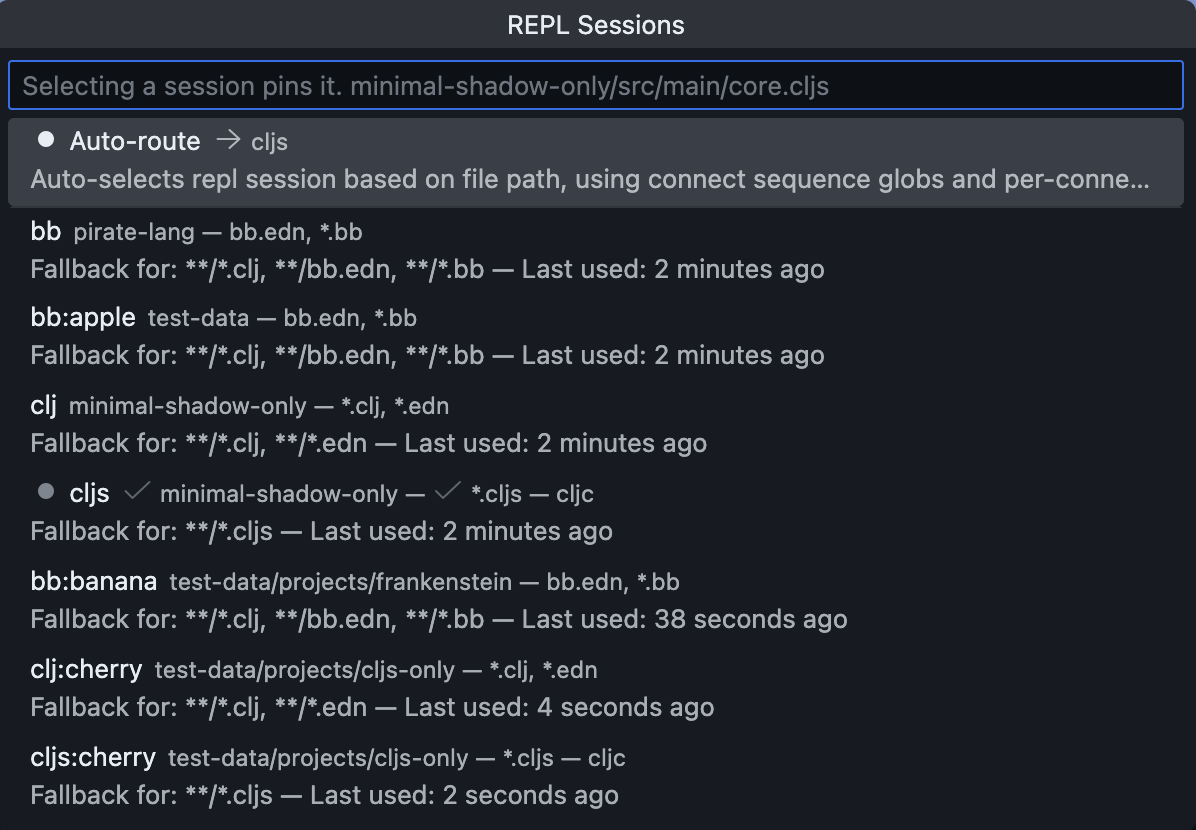
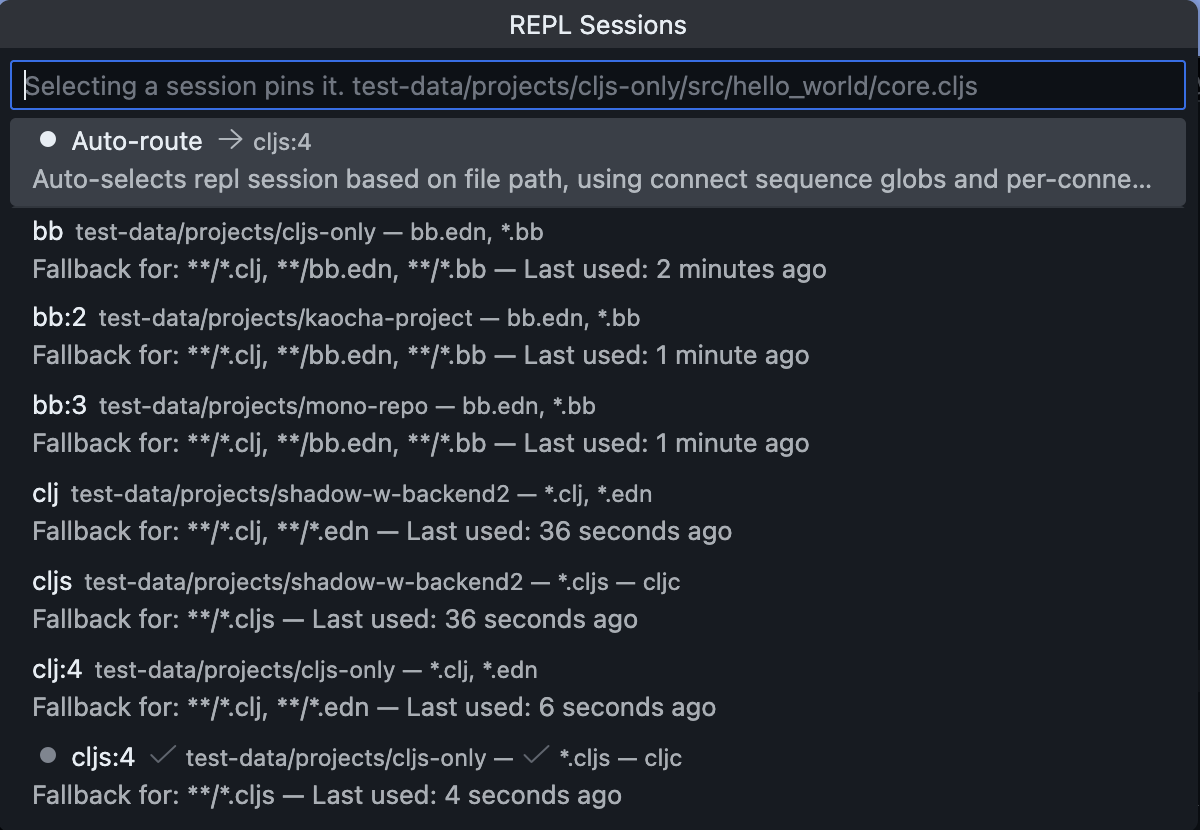
Remove some remaining fruit

diff --git a/src/nrepl/session-name-suffix.ts b/src/nrepl/session-name-suffix.ts
@@ -54,13 +54,7 @@ export function isPoolExhausted(): boolean {
 
 /**
  * Extract the suffix from a session name, if present.
- * Returns undefined if no suffix from the pool is found.
- *
- * Examples:
- * - `clj:apple` → `apple`
- * - `cljs:banana` → `banana`
- * - `clj` → undefined
- * - `my-session` → undefined (no suffix)
+ * Returns `undefined` if no suffix from the pool is found.
  */
 export function extractSuffix(sessionName: string): string | undefined {
   for (const suffix of SUFFIX_POOL) {
@@ -73,10 +67,6 @@ export function extractSuffix(sessionName: string): string | undefined {
 
 /**
  * Apply a suffix to a base session name.
- *
- * Examples:
- * - `clj`, `apple` → `clj:apple`
- * - `cljs`, `banana` → `cljs:banana`
  */
 export function applySuffix(baseName: string, suffix: string): string {
   return `${baseName}:${suffix}`;
@@ -85,11 +75,6 @@ export function applySuffix(baseName: string, suffix: string): string {
 /**
  * Strip any suffix from a session name, returning the base name.
  * If no suffix from the pool is present, returns the name unchanged.
- *
- * Examples:
- * - `clj:apple` → `clj`
- * - `cljs:banana` → `cljs`
- * - `clj` → `clj`
  */
 export function stripSuffix(sessionName: string): string {
   const suffix = extractSuffix(sessionName);

diff --git a/src/extension-test/unit/session-name-resolver-test.ts b/src/extension-test/unit/session-name-resolver-test.ts
@@ -132,15 +132,15 @@ describe('session-name-resolver', () => {
           projectRoot,
           connectionState: {
             baseSessionNames: baseNames,
-            suffix: 'apple',
+            suffix: '2',
           },
         });
 
         const resolution = sessionNameResolver.resolveSessionNames(baseNames, projectRoot);
 
         expect(resolution.reconnectClientKey).toBe('client-a');
-        expect(resolution.finalNames).toEqual({ primary: 'clj:apple', secondary: 'cljs:apple' });
-        expect(resolution.suffix).toBe('apple');
+        expect(resolution.finalNames).toEqual({ primary: 'clj:2', secondary: 'cljs:2' });
+        expect(resolution.suffix).toBe('2');
       });
 
       it('does not detect reconnection when projectRoot differs', () => {

diff --git a/docs/site/repl-ui.md b/docs/site/repl-ui.md
@@ -21,7 +21,7 @@ Calva keeps every nREPL connection alive until you explicitly disconnect it. Thi
 - Sessions names are defined by the [connect sequence](connect-sequences.md) used for connecting a REPL. Calva has built-in sequences for several Clojure dialects/runtimes, defining default session names. The session names are customizable via custom connect sequences.
 - When two or more sessions use the same session name, numbered suffixes will be used to separate the sessions.
 
-  E.g. connect three Babashka repls and you will have one session named `bb` another named `bb:apple`, and a third named `bb:banana`. If you then connect two Clojure + ClojureScript repls using default session names, you will have four more sessions named: `clj`, `cljs`, `clj:cherry`, `cljs:cherry`.
+  E.g. connect three Babashka repls and you will have one session named `bb` another named `bb:2`, and a third named `bb:3`. If you then connect two Clojure + ClojureScript repls using default session names, you will have four more sessions named: `clj`, `cljs`, `clj:4`, `cljs:4`.
 
 ![REPL Sessions Menu](images/repl-ui/repl-sessions-menu.png)
 
